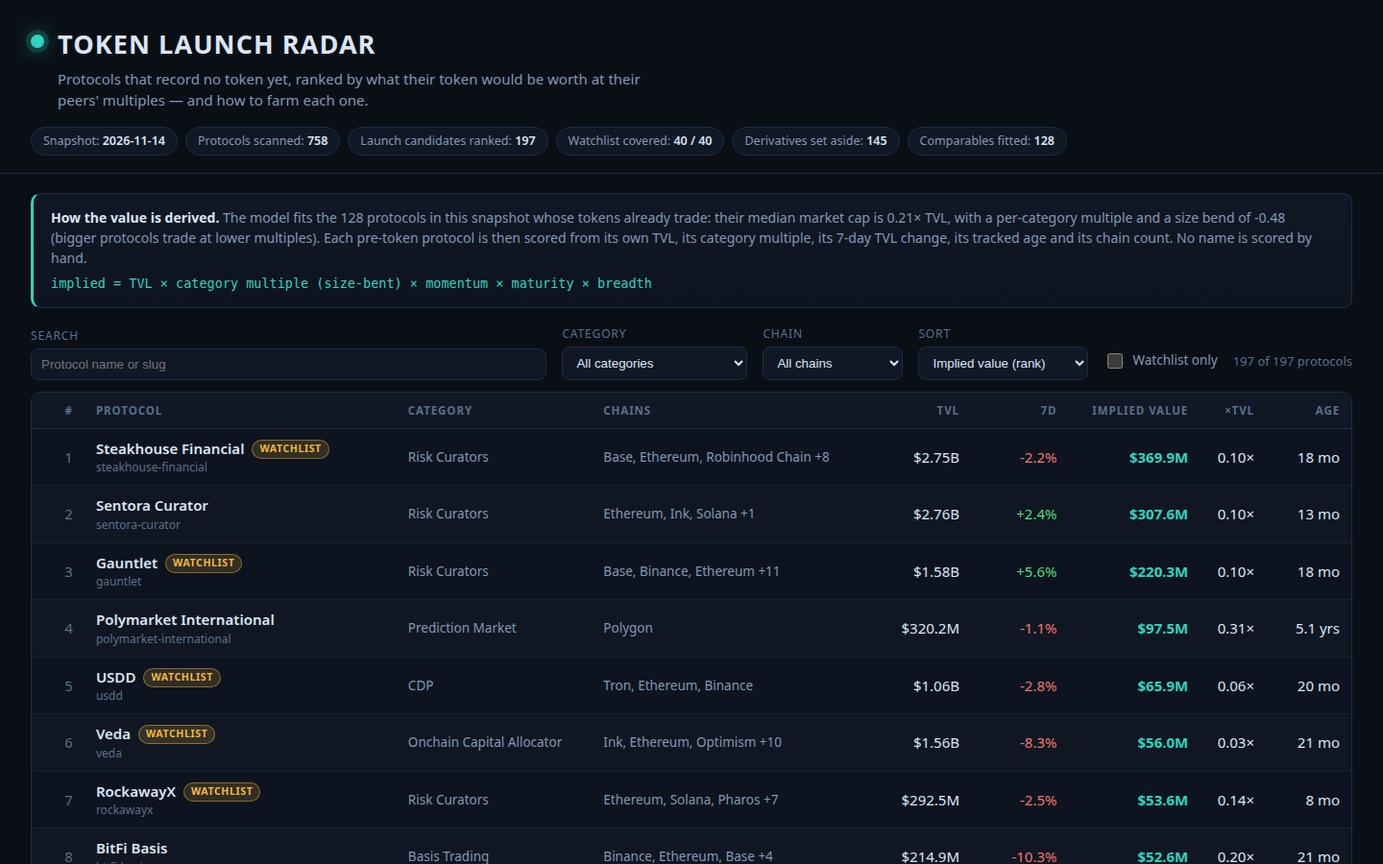
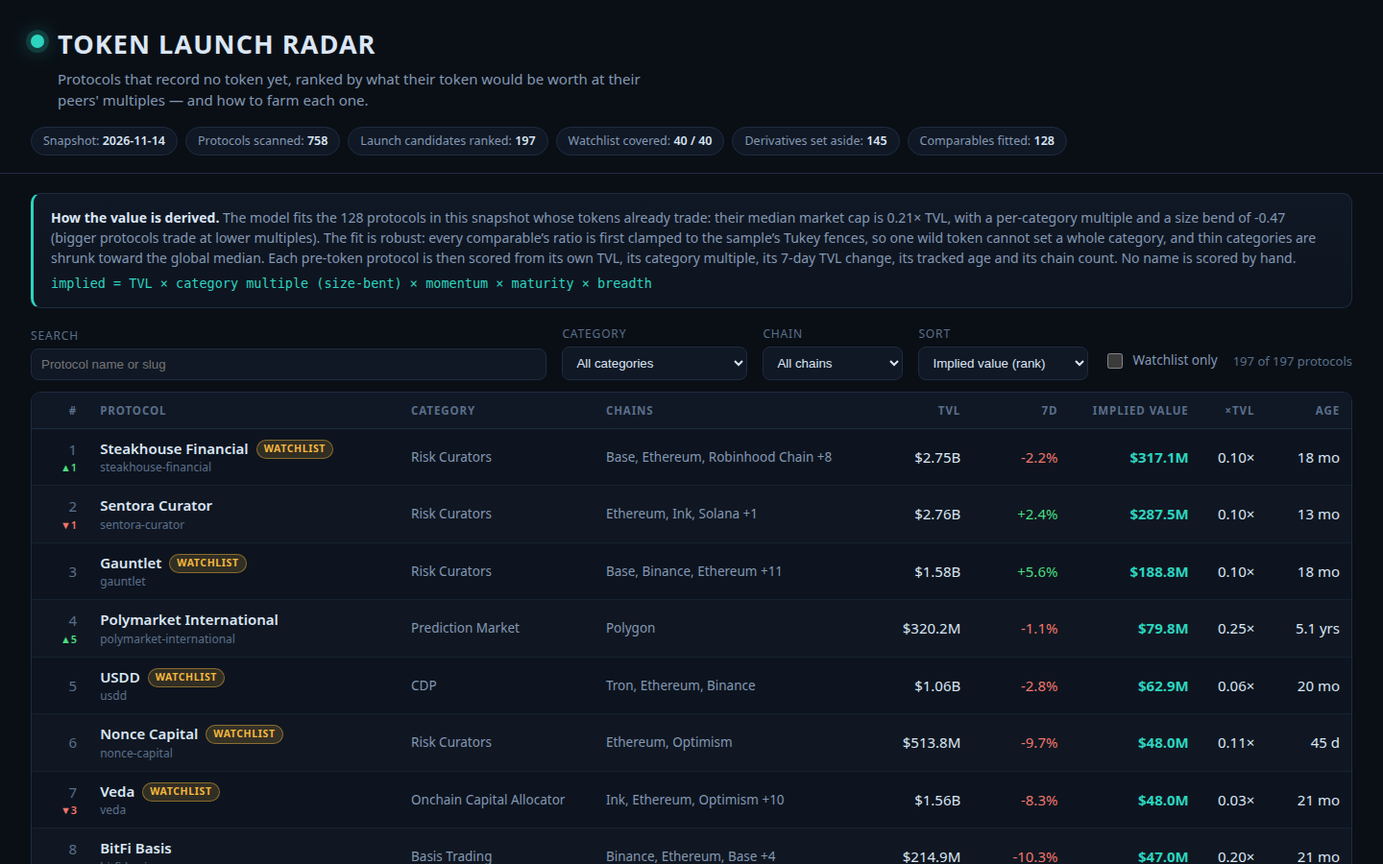
Polish for judging: robust winsorized fit, smaller breadth premium, concrete farm plans, clearer dashboard
Model (radar-mk3):
- Winsorize every comparable's log market-cap/TVL ratio at the sample's Tukey
  fences (Q1-1.5 IQR, Q3+1.5 IQR) before fitting medians, category multiples
  and the size slope. One comparable (a prediction-market token at ~400x its
  protocol's TVL) no longer sets its category: Prediction Market's fitted
  multiple falls 0.750 -> 0.606 and Polymarket International's implied value
  $97.5M -> $79.8M. Shrinkage K stays 5: a variance-components estimate from
  the snapshot itself (within-category vs between-category variance) supports
  K of roughly 2-3, so stronger shrinkage would contradict the data.
- Breadth premium 5% -> 2.5% per chain (max +40% -> +20%). Factor
  decomposition showed chain count alone supplied the entire net uplift of
  7 of the top 12 rows, and TVL already aggregates a protocol's chains.
  Top-20 membership is unchanged; values compress (Steakhouse $369.9M ->
  $317.1M, Gauntlet $220.3M -> $188.8M).

Farm plans: every plan now opens with an exact first action sized from the
plan's own capital split (position half / recurring-action size, rounded to
$10), and closes by naming the one concrete metric to total weekly
(cumulative swap volume, net supplied balance, time-weighted vault balance,
staked balance x days held, bridged volume per direction, ...).

Dashboard: rank arrows compare implied-value rank with TVL-only rank; exact
values on hover; watchlist chip reads the real 40/40; detail factor bars are
[…]

diff --git a/lib/model.ts b/lib/model.ts
@@ -11,13 +11,18 @@
 //      category (each category median shrunk toward the global one by its sample size), and a
 //      pooled size slope: across the comparables, doubling TVL comes with a lower multiple,
 //      so the fitted multiple for a subject bends with its size exactly as the market's does.
+//      The fit is robust: every comparable's log ratio is first clamped to the sample's own
+//      Tukey fences (Q1 - 1.5 IQR, Q3 + 1.5 IQR), so one wild comparable — a token trading at
+//      hundreds of times its protocol's TVL — cannot set a whole category's multiple, and a
+//      category resting on a single comparable stays visibly shrunk toward the global median.
 //   2. Momentum. A protocol whose TVL grew over the last seven days is launching into demand;
 //      one that shrank is not. The week's change, clamped, scales the fitted value.
 //   3. Maturity. A protocol DefiLlama has tracked for years with no token has a settled
 //      product and a settled user base; one listed last month has neither. Age since listing,
 //      on a log curve, scales the fitted value.
-//   4. Breadth. A protocol live on many chains distributes any launch across all of them;
-//      each extra chain adds a small premium.
+//   4. Breadth. A protocol live on many chains distributes any launch across all of them, but
+//      its TVL already sums those chains, so the premium is kept small on purpose: chain
+//      count alone must never carry a ranking the other factors do not.
 //
 // implied = TVL x category multiple (size-bent) x momentum x maturity x breadth, in dollars.
 //
@@ -52,7 +57,7 @@ export interface Snapshot {
 
 /** The model's constants, stated on the dashboard so a reader can disagree with them. */
 export const MODEL = {
-  version: 'radar-mk2',
+  version: 'radar-mk3',
   shrinkK: 5, // a category median's pull toward the global median, in phantom samples
   sizeSlopeClamp: 1.2, // the most the size bend may move a multiple, in log points
   multipleFloor: 0.004,
@@ -62,7 +67,7 @@ export const MODEL = {
   momentumFloorPct: -60,
   maturityBase: 0.72, // a protocol listed today keeps 72% of its fitted value
   maturityFullDays: 1095, // three tracked years earns the whole maturity factor
-  breadthPerChain: 0.05,
+  breadthPerChain: 0.025, // +2.5% a chain, +20% at most: TVL already aggregates the chains
   breadthMaxChains: 8,
 };
 
@@ -155,6 +160,30 @@ function logRatio(p: Protocol): number {
   return Math.log(p.mcap_usd! / p.tvl_usd);
 }
 
+/** The q-quantile of an ascending array, linearly interpolated between its neighbours. */
+function quantile(sorted: number[], q: number): number {
+  const at = (sorted.length - 1) * q;
+  const lo = Math.floor(at);
+  const hi = Math.min(lo + 1, sorted.length - 1);
+  return sorted[lo]! + (sorted[hi]! - sorted[lo]!) * (at - lo);
+}
+
+/**
+ * The comparables' log ratios with each one clamped to the sample's Tukey fences
+ * (Q1 - 1.5 IQR to Q3 + 1.5 IQR). One comparable whose token trades at hundreds of times
+ * its protocol's TVL is evidence about that token, not about its whole category: inside
+ * the fences every figure stands as recorded, outside them it counts at the fence.
+ */
+function winsorizedLogs(sample: Protocol[]): number[] {
+  const raw = sample.map(logRatio);
+  const sorted = [...raw].sort((a, b) => a - b);
+  const q1 = quantile(sorted, 0.25);
+  const q3 = quantile(sorted, 0.75);
+  const lo = q1 - 1.5 * (q3 - q1);
+  const hi = q3 + 1.5 * (q3 - q1);
+  return raw.map((v) => Math.max(lo, Math.min(hi, v)));
+}
+
 /** The protocols that can teach the model anything: a token, a market cap and a TVL. */
 export function comparables(protocols: Protocol[]): Protocol[] {
   return protocols.filter((p) => !recordsNoToken(p) && p.mcap_usd !== null && p.mcap_usd > 0 && p.tvl_usd > 0);
@@ -163,7 +192,7 @@ export function comparables(protocols: Protocol[]): Protocol[] {
 export function fitMultiples(protocols: Protocol[]): MultipleFit {
   const sample = comparables(protocols);
   if (sample.length < 8) throw new Error(`only ${sample.length} comparables: too few to fit a model`);
-  const logs = sample.map(logRatio);
+  const logs = winsorizedLogs(sample);
   const globalLog = median(logs);
   const centreLogTvl = sample.reduce((sum, p) => sum + Math.log(p.tvl_usd), 0) / sample.length;
 
@@ -179,11 +208,11 @@ export function fitMultiples(protocols: Protocol[]): MultipleFit {
   const sizeSlope = den === 0 ? 0 : num / den;
 
   const byCategory = new Map<string, number[]>();
-  for (const p of sample) {
-    const key = p.category ?? 'Uncategorised';
+  for (let i = 0; i < sample.length; i++) {
+    const key = sample[i]!.category ?? 'Uncategorised';
     const list = byCategory.get(key);
-    if (list === undefined) byCategory.set(key, [logRatio(p)]);
-    else list.push(logRatio(p));
+    if (list === undefined) byCategory.set(key, [logs[i]!]);
+    else list.push(logs[i]!);
   }
   const categories = [...byCategory.entries()]
     .map(([category, values]) => {
@@ -299,44 +328,63 @@ export function weeksFor(age: number | null): number {
   return 24;
 }
 
-type Playbook = (p: Protocol, chain: string) => [string, string];
+/** Round a planning amount to the nearest $10, never below $10. */
+function round10(n: number): number {
+  return Math.max(10, Math.round(n / 10) * 10);
+}
+
+/**
+ * A category's playbook: the exact first action, the position step that follows it, and the
+ * one metric worth tracking weekly. Amounts come from the plan's own capital split: pos is
+ * the position half of the wallet, act the size of one recurring action.
+ */
+type Playbook = (p: Protocol, chain: string, pos: number, act: number) => [string, string, string];
 
 const PLAYBOOKS: Record<string, Playbook> = {
-  dex: (p, chain) => [
-    `Swap through ${p.name}'s main pairs on ${chain} in both directions, $200-400 a round trip, twice a week, so your wallet shows real trading volume rather than one wash day.`,
-    `Provide liquidity to ${p.name}'s deepest ${chain} pool with half your capital and leave it in place; liquidity providers are the users a DEX launch rewards first and most visibly.`,
+  dex: (p, chain, pos, act) => [
+    `First action: swap about ${money(act)} through ${p.name}'s deepest ${chain} pair today, in and back out. Then repeat round trips of that size twice a week, in both directions, so the wallet builds real trading volume rather than one wash day.`,
+    `Commit the position half, about ${money(pos)}, as liquidity in that same ${chain} pool and leave it in place; liquidity providers are the users a DEX launch rewards first and most visibly.`,
+    'your cumulative swap volume and your share of the pool',
   ],
-  lending: (p, chain) => [
-    `Supply your capital as collateral on ${p.name} on ${chain} and keep the position open; supplied balances are the figure lending launches have historically snapshotted.`,
-    `Borrow a modest amount against your collateral on ${p.name}, repay it in full, and repeat monthly, so the wallet carries both sides of the market's history, not just deposits.`,
+  lending: (p, chain, pos, act) => [
+    `First action: supply about ${money(pos)}, the position half, as collateral on ${p.name} on ${chain} today and leave it untouched; supplied balances are the figure lending launches have historically snapshotted.`,
+    `Once a month, borrow about ${money(act)} against that collateral, hold it a few days and repay in full, so the wallet carries both sides of the market's history, not just deposits.`,
+    'your net supplied balance and your count of completed borrow-and-repay cycles',
   ],
-  derivatives: (p, chain) => [
-    `Open small perpetual positions on ${p.name} on ${chain}, a few hundred dollars of notional at a time, and close them over days rather than minutes, building genuine trading volume.`,
-    `Post margin on ${p.name} and keep an open position through each weekly cycle; sustained open interest is the activity a derivatives launch measures, not one large trade.`,
+  derivatives: (p, chain, pos, act) => [
+    `First action: post about ${money(pos)} of margin on ${p.name} on ${chain} today and open one small position, a few times the margin in notional, holding it for days rather than minutes.`,
+    `Keep a position open through each weekly cycle, resizing with about ${money(act)} of margin adjustments rather than flattening; sustained open interest is the activity a derivatives launch measures, not one large trade.`,
+    'your cumulative notional volume and your count of days with an open position',
   ],
-  yield: (p, chain) => [
-    `Deposit your capital into ${p.name}'s flagship ${chain} vault or strategy and leave it deposited; time-weighted balances are what vault launches reward, not deposits made the week before.`,
-    `Use a second ${p.name} strategy on ${chain} with a smaller share of capital, and rebalance between the two monthly, so the wallet shows considered use of the whole product.`,
+  yield: (p, chain, pos, act) => [
+    `First action: deposit about ${money(pos)}, the position half, into ${p.name}'s flagship ${chain} vault today and leave it deposited; time-weighted balances are what vault launches reward, not deposits made the week before.`,
+    `Put about ${money(act)} into a second ${p.name} strategy on ${chain} and rebalance between the two monthly, so the wallet shows considered use of the whole product.`,
+    'your time-weighted balance in each vault',
   ],
-  staking: (p, chain) => [
-    `Stake through ${p.name} on ${chain} with your capital and hold the resulting position without interruption; staking duration is the one figure a staking launch can snapshot fairly.`,
-    `Restake or delegate a second, smaller tranche through ${p.name} and claim any rewards it issues on schedule, so the wallet shows an active, maintained staking history.`,
+  staking: (p, chain, pos, act) => [
+    `First action: stake about ${money(pos)}, the position half, through ${p.name} on ${chain} today and do not unstake; staking duration is the one figure a staking launch can snapshot fairly.`,
+    `Stake a second tranche of about ${money(act)} through ${p.name} a month later and claim any rewards it issues on schedule, so the wallet shows an active, maintained staking history.`,
+    'your staked balance multiplied by the days it has been held',
   ],
-  bridge: (p, chain) => [
-    `Bridge funds to ${chain} through ${p.name} in amounts of $300-500, then bridge part back a week later, so both directions of the route carry your wallet's history.`,
-    `Make ${p.name} your default route for moving capital onto ${chain} for the whole plan period; repeated genuine transfers are what bridge launches have rewarded.`,
+  bridge: (p, chain, pos, act) => [
+    `First action: bridge about ${money(act)} to ${chain} through ${p.name} today, then bridge a third of it back a week later, so both directions of the route carry your wallet's history.`,
+    `Make ${p.name} your default route for moving capital onto ${chain} for the whole plan period, in amounts of about ${money(act)} and keeping roughly ${money(pos)} working on the far side; repeated genuine transfers are what bridge launches have rewarded.`,
+    'your bridged volume in each direction and the number of distinct weeks you bridged',
   ],
-  rwa: (p, chain) => [
-    `Complete ${p.name}'s onboarding on ${chain}, including any identity checks it requires, early: a finished account predating a launch is worth more than one opened after.`,
-    `Hold a position in ${p.name}'s main ${chain} offering for the full plan period, adding a small amount monthly, so the account shows a holder rather than a passer-by.`,
+  rwa: (p, chain, pos, act) => [
+    `First action: complete ${p.name}'s onboarding on ${chain} today, including any identity checks it requires, before depositing anything: a finished account predating a launch is worth more than one opened after.`,
+    `Then hold about ${money(pos)} in ${p.name}'s main ${chain} offering for the full plan period, adding about ${money(act)} a month, so the account shows a holder rather than a passer-by.`,
+    'your held balance and the age of your completed account',
   ],
-  cex: (p, chain) => [
-    `Trade spot on ${p.name} weekly in modest size and keep a balance on the exchange between trades; account age plus steady volume is what exchange launches have measured.`,
-    `Use ${p.name}'s earn or staking product with a share of your capital for the plan period, so the account carries product history beyond trading alone.`,
+  cex: (p, chain, pos, act) => [
+    `First action: deposit about ${money(pos)} on ${p.name} today and make one spot trade of about ${money(act)}; account age plus steady volume is what exchange launches have measured.`,
+    `Trade spot weekly in that size, keep the balance on the exchange between trades, and use ${p.name}'s earn or staking product with part of it, so the account carries product history beyond trading alone.`,
+    'your monthly spot volume and your average held balance',
   ],
-  generic: (p, chain) => [
-    `Use ${p.name}'s core product on ${chain} with your capital every week, in the way its documentation leads with; launches reward the users the product was built for.`,
-    `Take part in ${p.name}'s second surface as well, a companion feature, quest or integration on ${chain}, so your history is not a single repeated transaction.`,
+  generic: (p, chain, pos, act) => [
+    `First action: use ${p.name}'s core product on ${chain} with about ${money(act)} today, in the way its documentation leads with; launches reward the users the product was built for.`,
+    `Commit about ${money(pos)}, the position half, to that core use, and take part in ${p.name}'s second surface as well — a companion feature, quest or integration on ${chain} — so your history is not a single repeated transaction.`,
+    'your count of active weeks and your total volume through the product',
   ],
 };
 
@@ -375,10 +423,12 @@ const money = (n: number): string => `$${n.toLocaleString('en-US')}`;
 export function farmSteps(p: Protocol, age: number | null): string[] {
   const chain = p.chains[0] ?? 'Ethereum';
   const capital = capitalFor(p.tvl_usd);
+  const pos = round10(capital / 2);
+  const act = round10(capital / 5);
   const weeks = weeksFor(age);
-  const [core1, core2] = playbookFor(p.category)(p, chain);
+  const [core1, core2, metric] = playbookFor(p.category)(p, chain, pos, act);
   const steps: string[] = [
-    `Set up a dedicated wallet for ${p.name} and fund it with about ${money(capital)} on ${chain}; budget for ${feeNote(chain)}, and never farm with money you cannot leave untouched for months.`,
+    `Set up a dedicated wallet for ${p.name} and fund it with about ${money(capital)} on ${chain}, split in two halves: one backs the position step below, the other funds the recurring activity and the fees. Budget for ${feeNote(chain)}, and never farm with money you cannot leave untouched for months.`,
     core1,
     core2,
   ];
@@ -394,7 +444,7 @@ export function farmSteps(p: Protocol, age: number | null): string[] {
   }
   steps.push(
     `Hold the routine for about ${weeks} weeks, then keep the position and the wallet alive with one action a month; a dead wallet in the month of a snapshot reads as an exited user.`,
-    `Follow ${p.name}'s official channels weekly for a points programme or token announcement, and log every transaction hash and date in a spreadsheet, so you can prove the history if a claim ever asks.`,
+    `Follow ${p.name}'s official channels weekly for a points programme or token announcement. Log every transaction hash and date in a spreadsheet and total ${metric} each week, so the history is provable if a claim ever asks.`,
   );
   return steps;
 }
@@ -445,6 +495,8 @@ export interface Radar {
   floor_usd: number;
   model_version: string;
   scanned: number;
+  /** How many protocols the snapshot's watchlist names, so coverage reads as a real fraction. */
+  watchlistCount: number;
   fit: MultipleFit;
   rows: BoardRow[];
   live: LiveRow[];
@@ -515,6 +567,7 @@ export function buildRadar(snapshot: Snapshot): Radar {
     floor_usd: snapshot.floor_usd,
     model_version: MODEL.version,
     scanned: snapshot.protocols.length,
+    watchlistCount: snapshot.watchlist.length,
     fit,
     rows,
     live,

diff --git a/dashboard/app.js b/dashboard/app.js
@@ -10,6 +10,13 @@
   var bySlug = {};
   rows.forEach(function (r) { bySlug[r.slug] = r; });
 
+  // Where each protocol would rank on TVL alone: the board's small arrows measure the
+  // distance between that rank and the implied-value rank, so a reader sees at a glance
+  // which names the multiples, not the size, are carrying.
+  var tvlRank = {};
+  rows.slice().sort(function (a, b) { return b.tvl_usd - a.tvl_usd; })
+    .forEach(function (r, i) { tvlRank[r.slug] = i + 1; });
+
   // ------------------------------------------------------------ formatting
 
   function esc(s) {
@@ -95,7 +102,7 @@
       chip('Snapshot', D.as_of) +
       chip('Protocols scanned', D.scanned.toLocaleString('en-US')) +
       chip('Launch candidates ranked', rows.length.toLocaleString('en-US')) +
-      chip('Watchlist covered', watchCount + ' / ' + watchCount) +
+      chip('Watchlist covered', watchCount + ' / ' + D.watchlistCount) +
       chip('Derivatives set aside', D.setAside.length.toLocaleString('en-US')) +
       chip('Comparables fitted', D.fit.sampleSize.toLocaleString('en-US'));
     function chip(k, v) { return '<span class="chip">' + k + ': <strong>' + esc(v) + '</strong></span>'; }
@@ -106,7 +113,9 @@
       '<strong>How the value is derived.</strong> The model fits the ' + D.fit.sampleSize +
       ' protocols in this snapshot whose tokens already trade: their median market cap is ' +
       D.fit.globalMultiple.toFixed(2) + '&times; TVL, with a per-category multiple and a size bend of ' +
-      D.fit.sizeSlope.toFixed(2) + ' (bigger protocols trade at lower multiples). Each pre-token protocol is then scored ' +
+      D.fit.sizeSlope.toFixed(2) + ' (bigger protocols trade at lower multiples). The fit is robust: every comparable\u2019s ' +
+      'ratio is first clamped to the sample\u2019s Tukey fences, so one wild token cannot set a whole category, and thin ' +
+      'categories are shrunk toward the global median. Each pre-token protocol is then scored ' +
       'from its own TVL, its category multiple, its 7-day TVL change, its tracked age and its chain count. No name is scored by hand.' +
       '<span class="formula">implied = TVL &times; category multiple (size-bent) &times; momentum &times; maturity &times; breadth</span>';
   }
@@ -161,14 +170,19 @@
       return;
     }
     els.rows.innerHTML = list.map(function (r) {
+      var delta = tvlRank[r.slug] - r.rank;
+      var arrow = delta === 0 ? '' :
+        '<span class="delta ' + (delta > 0 ? 'up' : 'down') + '" title="By TVL alone this would rank #' +
+        tvlRank[r.slug] + '; the fitted multiples move it ' + (delta > 0 ? 'up ' : 'down ') + Math.abs(delta) +
+        '">' + (delta > 0 ? '\u25B2' : '\u25BC') + Math.abs(delta) + '</span>';
       return '<tr data-slug="' + esc(r.slug) + '">' +
-        '<td class="num rank">' + r.rank + '</td>' +
+        '<td class="num rank">' + r.rank + arrow + '</td>' +
         '<td class="name">' + esc(r.name) + badges(r) + '<span class="slug">' + esc(r.slug) + '</span></td>' +
         '<td class="cat">' + esc(r.category || '—') + '</td>' +
         '<td class="chains">' + esc(r.chains.slice(0, 3).join(', ')) + (r.chains.length > 3 ? ' +' + (r.chains.length - 3) : '') + '</td>' +
-        '<td class="num">' + compact(r.tvl_usd) + '</td>' +
+        '<td class="num" title="' + money(r.tvl_usd) + '">' + compact(r.tvl_usd) + '</td>' +
         '<td class="num">' + pct(r.change_7d) + '</td>' +
-        '<td class="num implied">' + compact(r.implied_value_usd) + '</td>' +
+        '<td class="num implied" title="' + money(r.implied_value_usd) + '">' + compact(r.implied_value_usd) + '</td>' +
         '<td class="num">' + r.multiple.toFixed(2) + '&times;</td>' +
         '<td class="num">' + ageText(r.age_days) + '</td>' +
         '</tr>';
@@ -193,7 +207,7 @@
       '<p>The board never ranks these; they are what the multiples are fitted on. The largest by TVL:</p>' +
       '<table><thead><tr><th>Protocol</th><th class="num">TVL</th><th class="num">Market cap</th><th class="num">Multiple</th></tr></thead><tbody>' + live + '</tbody></table></div>' +
       '<div class="card"><h2>Fitted multiples by category</h2>' +
-      '<p>Median market cap / TVL per category across ' + D.fit.sampleSize + ' trading protocols, shrunk toward the global median where a category is thin.</p>' +
+      '<p>Median market cap / TVL per category across ' + D.fit.sampleSize + ' trading protocols, each comparable first clamped to the sample\u2019s Tukey fences, then shrunk toward the global median where a category is thin. Read the Sample column before trusting a multiple: a category standing on one or two names is mostly the global median talking.</p>' +
       '<table><thead><tr><th>Category</th><th class="num">Sample</th><th class="num">Multiple</th></tr></thead><tbody>' + cats + '</tbody></table></div>' +
       '<div class="card"><h2>Set aside: not launches</h2>' +
       '<p>' + D.setAside.length + ' records carry no token of their own but are not launches either: wrapped, staked, bridged or exchange products of an asset that already trades, and later versions of a ranked protocol. The largest:</p>' +
@@ -202,12 +216,24 @@
 
   // ------------------------------------------------------------ detail view
 
+  // A factor's bar runs on a log scale from 0.25x to 4x with a tick at 1x, drawn from the
+  // tick outward: teal when the factor lifts the value, amber when it discounts it. A bar
+  // pinned at the tick is a factor that did nothing, which is itself worth seeing.
   function factorRow(label, value, note) {
-    var width = Math.max(3, Math.min(100, (value / 1.6) * 100));
+    var lo = Math.log(0.25);
+    var span = Math.log(4) - lo;
+    function pos(v) {
+      return Math.max(0, Math.min(100, ((Math.log(Math.max(v, 0.001)) - lo) / span) * 100));
+    }
+    var centre = pos(1);
+    var end = pos(value);
+    var left = Math.min(centre, end);
+    var width = Math.max(1.5, Math.abs(end - centre));
     return '<div class="factor"><span class="fname">' + label + '</span>' +
-      '<span class="track"><span class="fill" style="display:block;width:' + width.toFixed(0) + '%"></span></span>' +
-      '<span class="fval">' + value.toFixed(2) + '&times;</span></div>' +
-      (note ? '' : '');
+      '<span class="track"><span class="centre"></span>' +
+      '<span class="fill' + (value < 1 ? ' below' : '') + '" style="left:' + left.toFixed(1) + '%;width:' + width.toFixed(1) + '%"></span></span>' +
+      '<span class="fval">' + value.toFixed(2) + '&times;</span>' +
+      '<span class="fnote">' + note + '</span></div>';
   }
 
   function renderDetail(slug) {
@@ -233,10 +259,24 @@
         return '<div class="stat"><div class="k">' + s[0] + '</div><div class="v' + (s[2] ? ' signal' : '') + '">' + esc(s[1]) + '</div></div>';
       }).join('') + '</div>' +
       '<div class="factors"><h3>How this implied value is built</h3>' +
-      factorRow('Category multiple', r.multiple, '') +
-      factorRow('Momentum (7-day TVL)', r.momentum, '') +
-      factorRow('Maturity (tracked age)', r.maturity, '') +
-      factorRow('Breadth (chains)', r.breadth, '') +
+      factorRow('Category multiple', r.multiple,
+        catFit
+          ? esc(r.category || 'Uncategorised') + ' median fitted from ' + catFit.n + ' trading comparable' + (catFit.n === 1 ? '' : 's') +
+            ', clamped to the sample\u2019s fences and shrunk toward the global ' + D.fit.globalMultiple.toFixed(2) +
+            '&times;, then bent for this protocol\u2019s size.'
+          : 'No comparable in this category trades, so the global median ' + D.fit.globalMultiple.toFixed(2) +
+            '&times; stands in, bent for this protocol\u2019s size.') +
+      factorRow('Momentum (7-day TVL)', r.momentum,
+        r.change_7d === null
+          ? 'No 7-day change reported, so momentum counts as neutral.'
+          : 'TVL moved ' + (r.change_7d > 0 ? '+' : '') + r.change_7d.toFixed(1) + '% in seven days; the model counts half of that, clamped.') +
+      factorRow('Maturity (tracked age)', r.maturity,
+        r.age_days === null
+          ? 'Listing day unreported; the median tracked age of the snapshot stands in.'
+          : 'Tracked for ' + r.age_days + ' days; the factor reaches 1.00&times; at three tracked years.') +
+      factorRow('Breadth (chains)', r.breadth,
+        'Live on ' + r.chains.length + ' chain' + (r.chains.length === 1 ? '' : 's') +
+        '; +2.5% per extra chain, capped at +20%, because the TVL above already sums those chains.') +
       '<p class="how">' + money(r.tvl_usd) + ' of TVL. The ' + esc(r.category || 'Uncategorised') + ' category multiple is ' +
       (catFit ? catFit.multiple.toFixed(2) : D.fit.globalMultiple.toFixed(2)) + '&times;, fitted from ' +
       (catFit ? catFit.n : 0) + ' trading protocol' + (catFit && catFit.n === 1 ? '' : 's') +

diff --git a/dashboard/app.css b/dashboard/app.css
@@ -203,11 +203,18 @@ td .flat { color: var(--faint); }
 
 .factors { background: var(--panel); border: 1px solid var(--line); border-radius: var(--radius); padding: 16px 18px; margin-bottom: 18px; }
 .factors h3, .plan h3 { margin: 0 0 10px; font-size: 15px; }
-.factor { display: grid; grid-template-columns: 170px 1fr 64px; gap: 12px; align-items: center; margin: 7px 0; font-size: 13.5px; }
+.factor { display: grid; grid-template-columns: 170px 1fr 64px; gap: 4px 12px; align-items: center; margin: 9px 0; font-size: 13.5px; }
 .factor .fname { color: var(--dim); }
-.factor .track { height: 8px; background: var(--panel-2); border: 1px solid var(--line); border-radius: 99px; overflow: hidden; }
-.factor .fill { height: 100%; background: var(--signal); }
+.factor .track { position: relative; height: 8px; background: var(--panel-2); border: 1px solid var(--line); border-radius: 99px; }
+.factor .centre { position: absolute; left: 50%; top: -2px; bottom: -2px; width: 1px; background: var(--faint); opacity: 0.8; }
+.factor .fill { position: absolute; top: 0; height: 100%; background: var(--signal); border-radius: 99px; }
+.factor .fill.below { background: var(--amber); }
 .factor .fval { text-align: right; font-variant-numeric: tabular-nums; }
+.factor .fnote { grid-column: 2 / 4; color: var(--faint); font-size: 12px; }
+
+td.rank .delta { display: block; font-size: 11px; font-weight: 600; }
+td.rank .delta.up { color: var(--green); }
+td.rank .delta.down { color: var(--red); }
 .factors .how { color: var(--faint); font-size: 13px; margin-top: 10px; }
 
 .plan { background: var(--panel); border: 1px solid var(--line); border-radius: var(--radius); padding: 16px 18px; margin-bottom: 22px; }

diff --git a/dashboard/index.html b/dashboard/index.html
@@ -47,7 +47,7 @@
       <table id="board">
         <thead>
           <tr>
-            <th class="num">#</th><th>Protocol</th><th>Category</th><th>Chains</th>
+            <th class="num" title="Rank by implied value. The small arrow compares it with the rank by TVL alone: how far the fitted multiples, not the size, move this protocol.">#</th><th>Protocol</th><th>Category</th><th>Chains</th>
             <th class="num">TVL</th><th class="num">7d</th><th class="num">Implied value</th>
             <th class="num">&times;TVL</th><th class="num">Age</th>
           </tr>

diff --git a/README.md b/README.md
@@ -15,7 +15,11 @@ The implied value is fitted, never assigned by hand. The 128 protocols in the sa
 whose tokens already trade and carry a market cap are the comparables: the model takes their
 median market-cap/TVL multiple per category (shrunk toward the global median of 0.21x where a
 category is thin), bends it by a pooled size slope (larger protocols trade at lower multiples),
-and scales it by each subject's own seven-day TVL momentum, tracked age and chain breadth:
+and scales it by each subject's own seven-day TVL momentum, tracked age and chain breadth.
+The fit is robust: every comparable's ratio is first clamped to the sample's own Tukey fences,
+so a single token trading at hundreds of times its protocol's TVL cannot set a whole
+category's multiple, and the breadth premium is deliberately small (+2.5% per extra chain,
++20% at most) because a protocol's TVL already sums its chains:
 
 ```
 implied = TVL x category multiple (size-bent) x momentum x maturity x breadth
